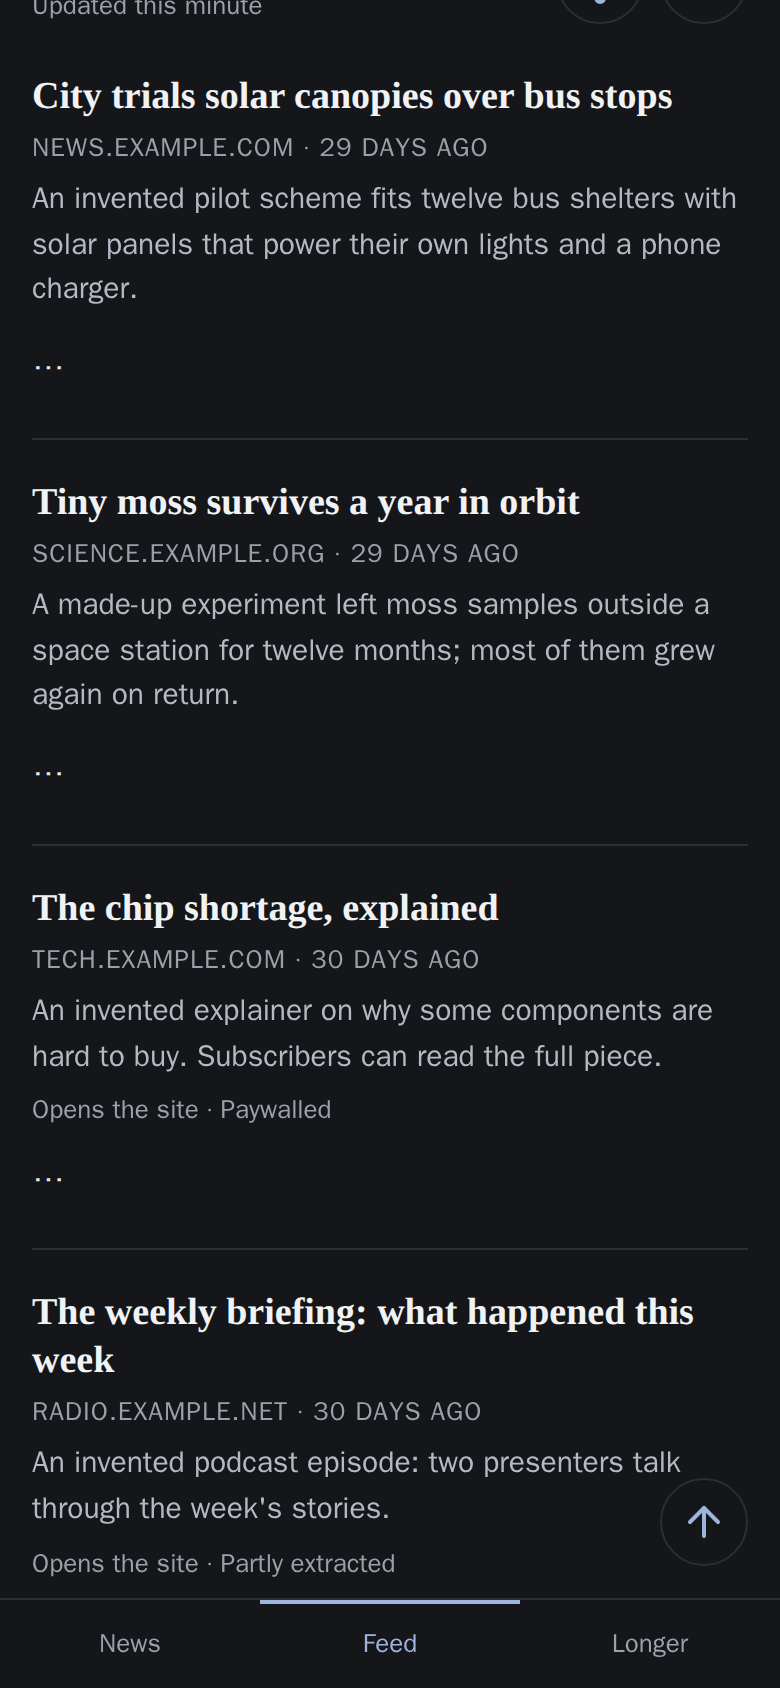
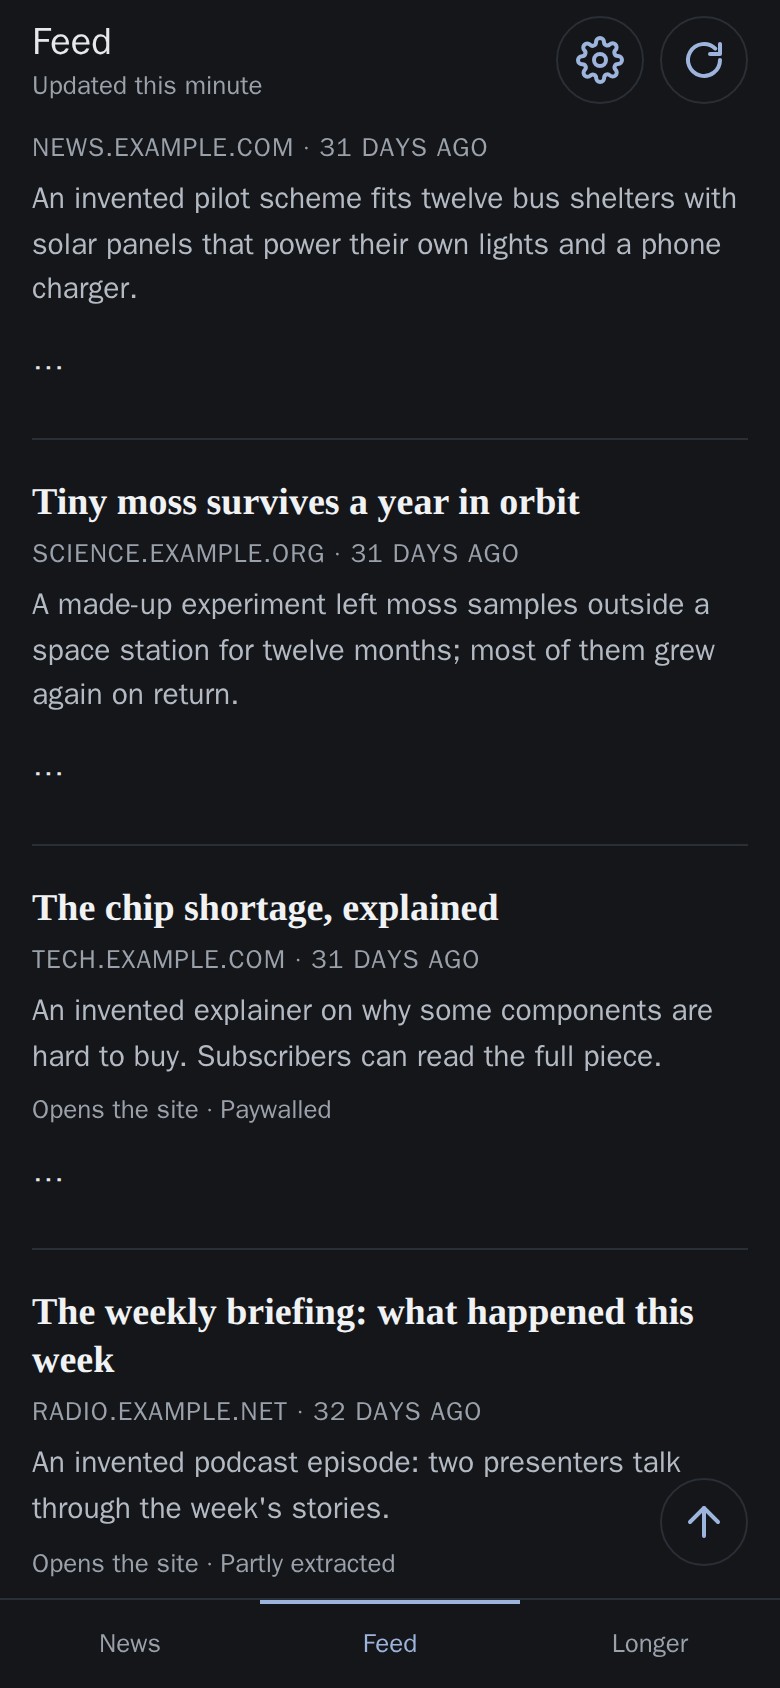
fix(client): snap the feed header fully in or out when scrolling stops (#307)

Changed region(s): [[0.0308, 0.0, 0.9231, 0.0924], [0.4615, 0.3081, 0.4923, 0.3389]]

diff --git a/client/e2e/feed-scroll-chrome.spec.ts b/client/e2e/feed-scroll-chrome.spec.ts
@@ -65,14 +65,44 @@ test("the header slides away going down and back going up, and is whole at the t
   await expect.poll(() => headerTop(page)).toBe(BODY_PAD);
 });
 
-test("the header moves exactly as far as the page is scrolled, 30px for 30px", async ({ page }) => {
+test("the header moves exactly as far as the page is scrolled, 30px for 30px, mid-scroll", async ({
+  page,
+}) => {
+  // Programmatic scrolls end at once, which would snap straight away; ignore `scrollend` here so
+  // only the 120ms idle timeout is left, and sample before it.
+  await page.addInitScript(() => {
+    const add = window.addEventListener.bind(window);
+    window.addEventListener = ((type: string, ...rest: unknown[]) =>
+      type === "scrollend" ? undefined : (add as (...a: unknown[]) => void)(type, ...rest)) as typeof add;
+  });
   await openLongFeed(page);
-  await page.mouse.wheel(0, 30);
-  await expect.poll(() => scrollY(page)).toBe(30);
+  // Sampled 60ms after the scroll, well before the idle snap.
+  const tops = await page.evaluate(async () => {
+    const top = () => document.querySelector("header.top")!.getBoundingClientRect().top;
+    const frames = () => new Promise((r) => setTimeout(r, 60));
+    window.scrollTo({ top: 30, behavior: "instant" });
+    await frames();
+    const down = top();
+    window.scrollTo({ top: 20, behavior: "instant" });
+    await frames();
+    return [down, top()];
+  });
   // It rests BODY_PAD below the top; 30px of scroll leaves it 30px higher.
-  await expect.poll(() => headerTop(page)).toBe(BODY_PAD - 30);
-  await page.mouse.wheel(0, -10);
-  await expect.poll(() => headerTop(page)).toBe(BODY_PAD - 20);
+  expect(tops).toEqual([BODY_PAD - 30, BODY_PAD - 20]);
+});
+
+test("when scrolling stops the header snaps fully shown after up, fully hidden after down", async ({
+  page,
+}) => {
+  await openLongFeed(page);
+  await jump(page, 3000);
+  const h = (await header(page).boundingBox())!.height;
+  await page.mouse.wheel(0, 20);
+  await expect.poll(() => headerTop(page)).toBe(-h);
+  await page.mouse.wheel(0, -20);
+  await expect.poll(() => headerTop(page)).toBe(0);
+  await page.mouse.wheel(0, 20);
+  await expect.poll(() => headerTop(page)).toBe(-h);
 });
 
 test("the Back to top button is a 44px circle above the tab bar, bottom right", async ({ page }) => {
@@ -118,7 +148,8 @@ for (const scheme of ["light", "dark"] as const) {
     await page.mouse.wheel(0, 30);
     await page.mouse.wheel(0, -20);
     await expect(toTop(page)).toBeVisible();
-    await expect.poll(() => headerTop(page)).toBeLessThan(0);
+    // At rest after the snap: fully shown, nothing part-hidden.
+    await expect.poll(() => headerTop(page)).toBe(0);
     await page.waitForTimeout(300);
     await shot(page, `feed-scrolled-up-${scheme}`);
   });

diff --git a/client/src/feed/useScrollChrome.ts b/client/src/feed/useScrollChrome.ts
@@ -1,34 +1,57 @@
 import type { RefObject } from "preact";
 import { useEffect, useState } from "preact/hooks";
-import { INITIAL_CHROME, nextChrome, type ChromeState } from "./scrollChrome";
+import { INITIAL_CHROME, nextChrome, snapChrome, type ChromeState } from "./scrollChrome";
 
 /**
  * Tracks the page scroll (passive listener, one update per frame) and returns the header's offset
  * and whether the Back to top button shows (#307). `headerRef` is the moving header.
  */
-export function useScrollChrome(headerRef: RefObject<HTMLElement>): ChromeState {
-  const [state, setState] = useState<ChromeState>(INITIAL_CHROME);
+export function useScrollChrome(
+  headerRef: RefObject<HTMLElement>,
+): ChromeState & { snapping: boolean } {
+  const [state, setState] = useState<ChromeState & { snapping: boolean }>({
+    ...INITIAL_CHROME,
+    snapping: false,
+  });
 
   useEffect(() => {
     let current = INITIAL_CHROME;
     let frame = 0;
+    let idle = 0;
+    const height = () => headerRef.current?.offsetHeight ?? 0;
+    const gap = () => parseFloat(getComputedStyle(document.body).paddingTop) || 0;
+    const reduce = () =>
+      typeof window.matchMedia === "function" &&
+      window.matchMedia("(prefers-reduced-motion: reduce)").matches;
     const update = () => {
       frame = 0;
-      current = nextChrome(
-        current,
-        window.scrollY,
-        window.innerHeight,
-        headerRef.current?.offsetHeight ?? 0,
-        parseFloat(getComputedStyle(document.body).paddingTop) || 0,
-      );
-      setState(current);
+      current = nextChrome(current, window.scrollY, window.innerHeight, height(), gap());
+      setState({ ...current, snapping: false });
+    };
+    // Scrolling has stopped: finish a part-shown header's slide, animated (not under reduced motion).
+    const settle = () => {
+      window.clearTimeout(idle);
+      if (frame) {
+        cancelAnimationFrame(frame);
+        update();
+      }
+      const next = snapChrome(current, height(), gap());
+      if (next === current) return;
+      current = next;
+      setState({ ...current, snapping: !reduce() });
     };
     const onScroll = () => {
       if (!frame) frame = requestAnimationFrame(update);
+      // `scrollend` is not everywhere, so a short idle timeout backs it up.
+      window.clearTimeout(idle);
+      idle = window.setTimeout(settle, 120);
     };
     window.addEventListener("scroll", onScroll, { passive: true });
+    window.addEventListener("scrollend", settle);
     return () => {
       window.removeEventListener("scroll", onScroll);
+      window.removeEventListener("scrollend", settle);
+      window.clearTimeout(idle);
       if (frame) cancelAnimationFrame(frame);
     };
   }, [headerRef]);

diff --git a/client/src/feed/scrollChrome.test.ts b/client/src/feed/scrollChrome.test.ts
@@ -1,5 +1,5 @@
 import { describe, expect, it } from "vitest";
-import { INITIAL_CHROME, nextChrome } from "./scrollChrome";
+import { INITIAL_CHROME, nextChrome, snapChrome } from "./scrollChrome";
 
 const VP = 800;
 const H = 60;
@@ -43,5 +43,33 @@ describe("nextChrome", () => {
   it("does not show within two screens", () => {
     const s = nextChrome(nextChrome(INITIAL_CHROME, 1.9 * VP, VP, H), 1.8 * VP, VP, H);
     expect(s.showButton).toBe(false);
+  });
+});
+
+describe("snapChrome", () => {
+  it("finishes a part-shown header hidden after a downward move", () => {
+    const s = nextChrome(INITIAL_CHROME, 30, VP, H);
+    expect(s.dir).toBe(1);
+    expect(snapChrome(s, H).offset).toBe(H);
+  });
+
+  it("finishes a part-shown header shown after an upward move", () => {
+    let s = nextChrome(INITIAL_CHROME, 500, VP, H);
+    s = nextChrome(s, 470, VP, H);
+    expect(s.dir).toBe(-1);
+    expect(snapChrome(s, H).offset).toBe(0);
+  });
+
+  it("leaves a fully shown or fully hidden header alone", () => {
+    const hidden = nextChrome(INITIAL_CHROME, 500, VP, H);
+    expect(snapChrome(hidden, H)).toBe(hidden);
+    const shown = nextChrome(hidden, 300, VP, H);
+    expect(snapChrome({ ...shown, offset: 0 }, H).offset).toBe(0);
+  });
+
+  it("is always fully shown at the top, whatever the direction", () => {
+    const part = { ...INITIAL_CHROME, y: 10, offset: 20, dir: 1 as const };
+    expect(snapChrome(part, H, 16).offset).toBe(0);
+    expect(snapChrome({ ...part, y: 0 }, H).offset).toBe(0);
   });
 });

diff --git a/client/src/feed/scrollChrome.ts b/client/src/feed/scrollChrome.ts
@@ -7,9 +7,11 @@ export interface ChromeState {
   offset: number;
   /** Whether the Back to top button shows. */
   showButton: boolean;
+  /** Direction of the last scroll move: -1 up, 1 down, 0 none yet. */
+  dir: -1 | 0 | 1;
 }
 
-export const INITIAL_CHROME: ChromeState = { y: 0, offset: 0, showButton: false };
+export const INITIAL_CHROME: ChromeState = { y: 0, offset: 0, showButton: false, dir: 0 };
 
 /**
  * The next state after a scroll to `y`. The header follows the scroll delta (so it moves with the
@@ -31,5 +33,17 @@ export function nextChrome(
   let showButton = prev.showButton;
   if (delta > 0 || y <= viewport) showButton = false;
   else if (delta < 0 && y > 2 * viewport) showButton = true;
-  return { y, offset, showButton };
+  const dir = delta < 0 ? -1 : delta > 0 ? 1 : prev.dir;
+  return { y, offset, showButton, dir };
+}
+
+/**
+ * The state once scrolling has stopped. A part-shown header (0 < offset < height) finishes its
+ * slide: fully shown if the last move was upward, fully hidden if downward. At the top of the page
+ * (`y <= gap`) it is always fully shown, and a fully shown or hidden header is left alone.
+ */
+export function snapChrome(prev: ChromeState, headerHeight: number, gap = 0): ChromeState {
+  if (prev.y <= gap) return prev.offset === 0 ? prev : { ...prev, offset: 0 };
+  if (prev.offset <= 0 || prev.offset >= headerHeight) return prev;
+  return { ...prev, offset: prev.dir < 0 ? 0 : headerHeight };
 }

diff --git a/client/e2e/navigation.spec.ts b/client/e2e/navigation.spec.ts
@@ -262,11 +262,12 @@ test.describe("the compact feed header", () => {
     await page.evaluate(() => window.scrollTo(0, 400));
     // #307: it moves with the scroll, so it is out of view going down...
     await expect.poll(async () => (await box(row)).y + (await box(row)).height).toBeLessThanOrEqual(0);
-    // ...and 30px of it is back after scrolling up 30px, still stuck to the top edge.
+    // ...and after scrolling up 30px it snaps fully back when scrolling stops, stuck to the top edge.
+    const height = Math.round((await box(row)).height);
     await page.mouse.wheel(0, -30);
     await expect
       .poll(async () => Math.round((await box(row)).y + (await box(row)).height))
-      .toBe(30);
+      .toBe(height);
   });
 
   test("while refreshing the button is disabled and spins; afterwards it is enabled again", async ({

diff --git a/client/src/feed/FeedScreen.tsx b/client/src/feed/FeedScreen.tsx
@@ -39,12 +39,12 @@ export function FeedScreen({ view = "feed" }: { view?: ViewName }) {
   const { feed, fetchedAt, offline, notice, busy, loadingMore, refresh, loadMore } = useFeed(view);
 
   const headerRef = useRef<HTMLElement>(null);
-  const { offset, showButton } = useScrollChrome(headerRef);
+  const { offset, showButton, snapping } = useScrollChrome(headerRef);
 
   return (
     <main>
       <header
-        class="top"
+        class={snapping ? "top snapping" : "top"}
         ref={headerRef}
         style={offset > 0 ? { transform: `translateY(-${offset}px)` } : undefined}
       >

diff --git a/client/src/feed/feed-status.css b/client/src/feed/feed-status.css
@@ -113,3 +113,14 @@
     transition: none;
   }
 }
+
+/* The header follows the finger with no transition; only the snap at rest animates (#307). */
+.top.snapping {
+  transition: transform 0.15s ease-out;
+}
+
+@media (prefers-reduced-motion: reduce) {
+  .top.snapping {
+    transition: none;
+  }
+}
